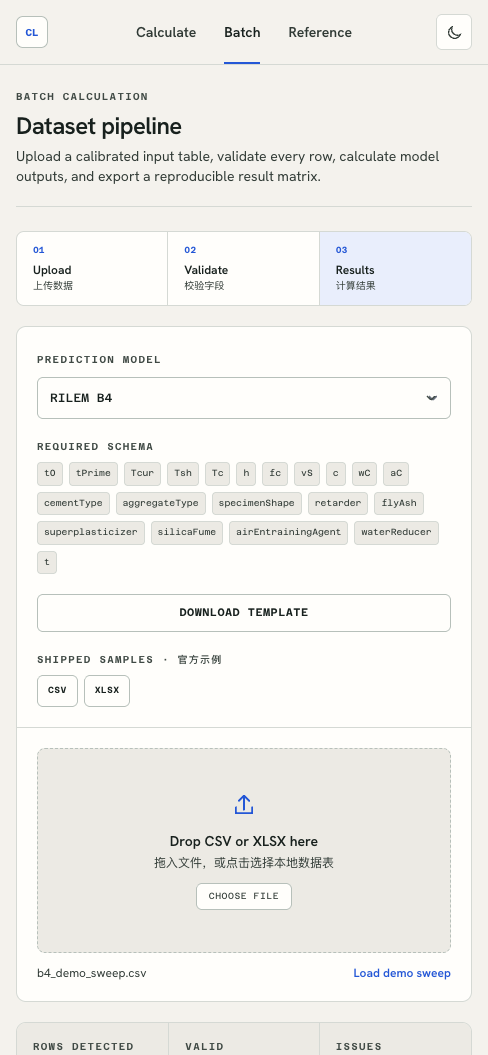
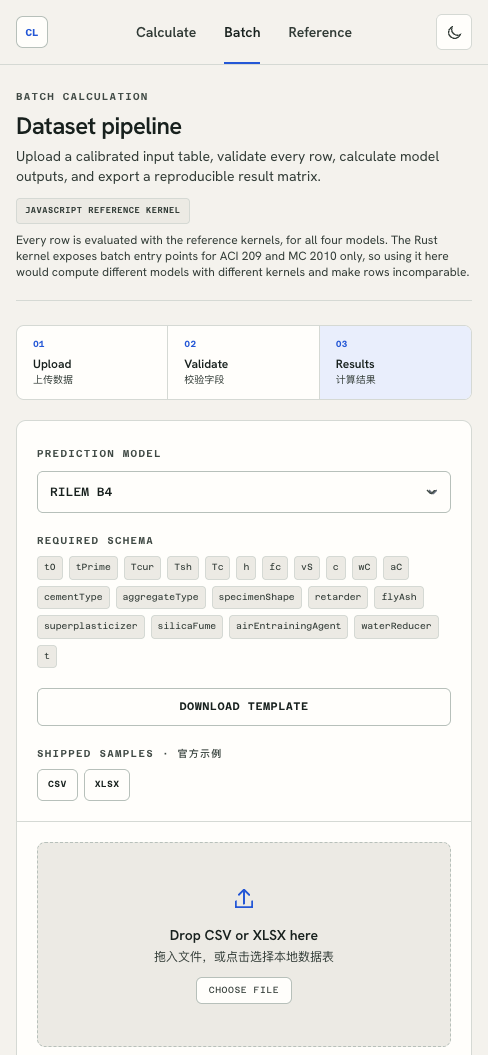
feat(batch): say which kernel computes the rows, and why
The audit's finding was that the batch pipeline computes with the JavaScript
reference kernels while the header badge says the WASM kernel is ready, and
nothing in the workspace said so.

The behaviour is right and stays: the Rust package exposes batch entry points for
ACI 209 and MC 2010 only (calculate_aci209_batch, calculate_mc2010_batch), so
routing those two through WASM would compute different models with different
kernels in one table and make the rows incomparable. The workspace now states
this, with the reason, next to the dataset it applies to.

The header badge's tooltip also says its scope: the calculation workspace. It
still reads "WASM ready" on the batch page, which is truthful about the loaded
kernel but sits next to a line saying the batch uses the reference kernels;
unifying that indicator is a job for the visual pass, not for this one.

A test asserts the statement, so it cannot be dropped silently.

The two batch screenshots are regenerated (the header gained a line); the
reference library and the remaining shots are byte-identical.

diff --git a/src/components/BatchCalculator.jsx b/src/components/BatchCalculator.jsx
@@ -207,6 +207,12 @@ export default function BatchCalculator() {
         <div className="eyebrow">Batch calculation</div>
         <h1 className="mt-1.5 text-2xl font-semibold tracking-[-0.025em] text-primary md:text-[28px]">Dataset pipeline</h1>
         <p className="mt-1 max-w-2xl text-sm text-muted">Upload a calibrated input table, validate every row, calculate model outputs, and export a reproducible result matrix.</p>
+        {/* The audit found the batch silently computing with a different kernel than
+            the header badge implied. State it, and state why. */}
+        <p className="mt-3 flex flex-wrap items-center gap-2 text-xs text-muted">
+          <span className="rounded border border-line bg-surface-2 px-2 py-1 font-mono text-4xs font-semibold uppercase tracking-[.07em] text-muted">JavaScript reference kernel</span>
+          <span>Every row is evaluated with the reference kernels, for all four models. The Rust kernel exposes batch entry points for ACI 209 and MC 2010 only, so using it here would compute different models with different kernels and make rows incomparable.</span>
+        </p>
       </header>
 
       <div className="mb-5 grid grid-cols-3 overflow-hidden rounded-lg border border-line bg-surface">

diff --git a/src/components/BatchCalculator.test.jsx b/src/components/BatchCalculator.test.jsx
@@ -48,6 +48,15 @@ describe('BatchCalculator dataset pipeline', () => {
     expect(summary).toHaveTextContent(/Rows detected\s*1\s*Valid\s*1\s*Issues\s*0/);
   });
 
+  // Regression: the batch computed with the reference kernels while the header
+  // badge said the WASM kernel was active, and nothing in this workspace said
+  // which kernel produced the numbers.
+  test('the workspace states which kernel computes the rows', () => {
+    render(<BatchCalculator />);
+    expect(screen.getByText('JavaScript reference kernel')).toBeInTheDocument();
+    expect(screen.getByText(/Rust kernel exposes batch entry points for ACI 209 and MC 2010 only/)).toBeInTheDocument();
+  });
+
   // Regression: read-excel-file v9 changed its default export from "rows" to
   // "[{ sheet, data }]", so `(await readXlsxFile(file)).map(...)` threw
   // "TypeError: (headerRow || []).map is not a function" for every .xlsx file,

diff --git a/src/components/ui/Header.jsx b/src/components/ui/Header.jsx
@@ -22,7 +22,7 @@ export default function Header({ activeMode, onModeChange, onOpenDocs }) {
       idle: { label: 'Kernel idle', title: 'No calculation has run in this session yet.' },
       loading: { label: 'Loading WASM…', title: 'Loading the Rust WebAssembly kernel.' },
       ready: kernel.engine === 'rust'
-        ? { label: 'WASM ready', title: 'The Rust WebAssembly kernel is loaded and active.' }
+        ? { label: 'WASM ready', title: 'The Rust WebAssembly kernel is loaded and active for the calculation workspace. The batch pipeline computes with the JavaScript reference kernels.' }
         : { label: 'JS kernel ready', title: 'The JavaScript reference kernel is active.' },
       failed: { label: 'WASM unavailable', warn: true, title: 'The Rust kernel failed to load.' },
     }[kernel.state] ?? { label: 'Kernel idle', title: '' };

diff --git a/README.md b/README.md
@@ -39,7 +39,7 @@ $$
 | Batch pipeline | Upload CSV / XLSX cases, validate the schema and rows, inspect the result matrix, and export calculated outputs. |
 | Result visualizer | Separate compliance and shrinkage curves, inspect decomposed values, switch linear/log time, and export chart data. |
 | Reference library | Read implementation scope, calibrated ranges, equations, source mapping, limitations, and official references. |
-| Dual engine | Use pure JavaScript reference kernels or Rust WebAssembly kernels, with a parity suite and an in-app timing comparison between them. |
+| Dual engine | Use pure JavaScript reference kernels or Rust WebAssembly kernels, with a parity suite and an in-app timing comparison between them. The batch pipeline computes with the reference kernels for all four models — the Rust kernel exposes batch entry points for ACI 209 and MC 2010 only, so using it there would compute different models with different kernels. |
 | Shareable state | The workspace, model and kernel live in the URL (`?mode=docs&model=b4&kernel=js`), so a view can be linked to, Back and Forward move between workspaces, and a refresh keeps the edited parameters. |
 
 ### Deep links
